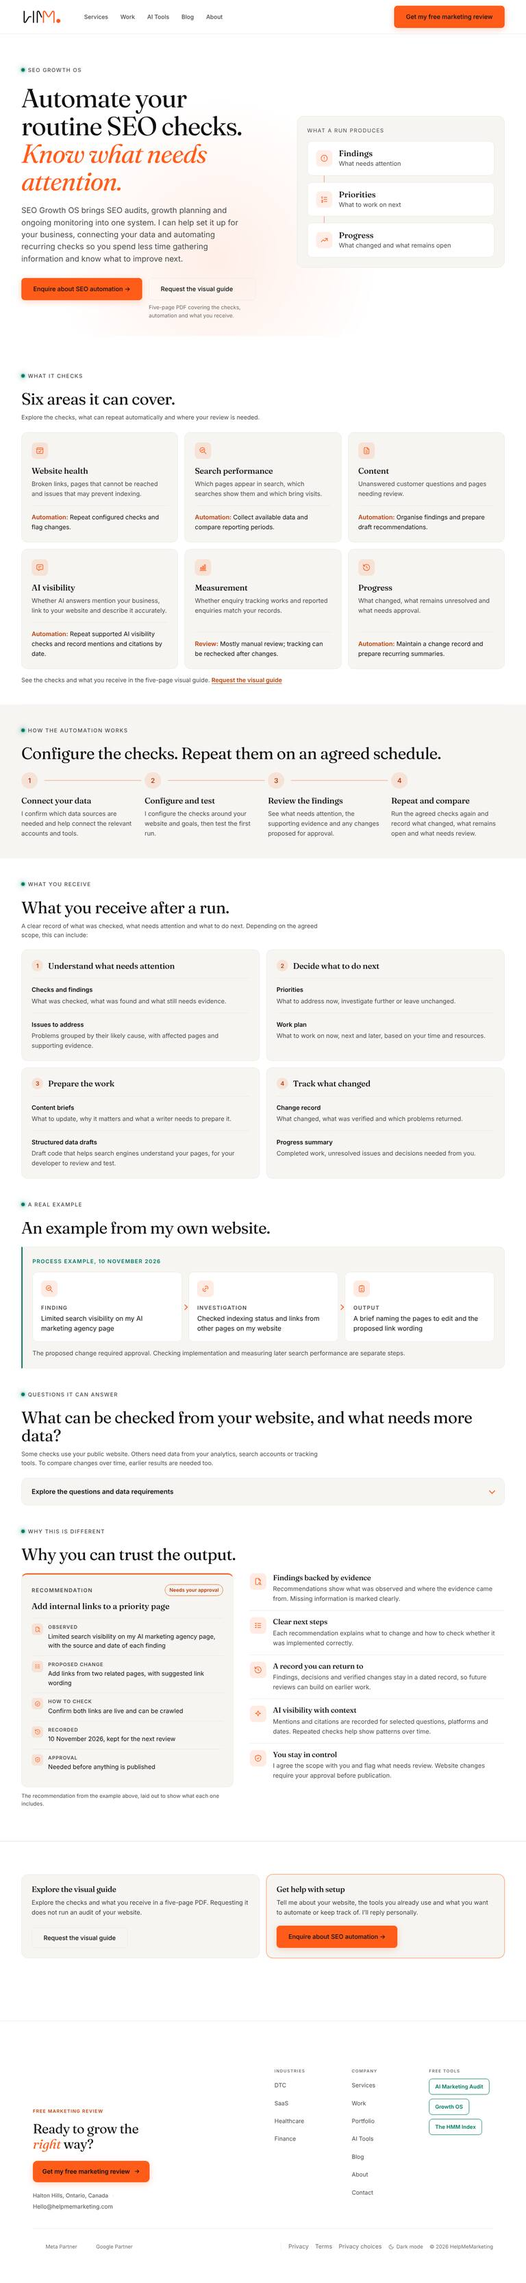
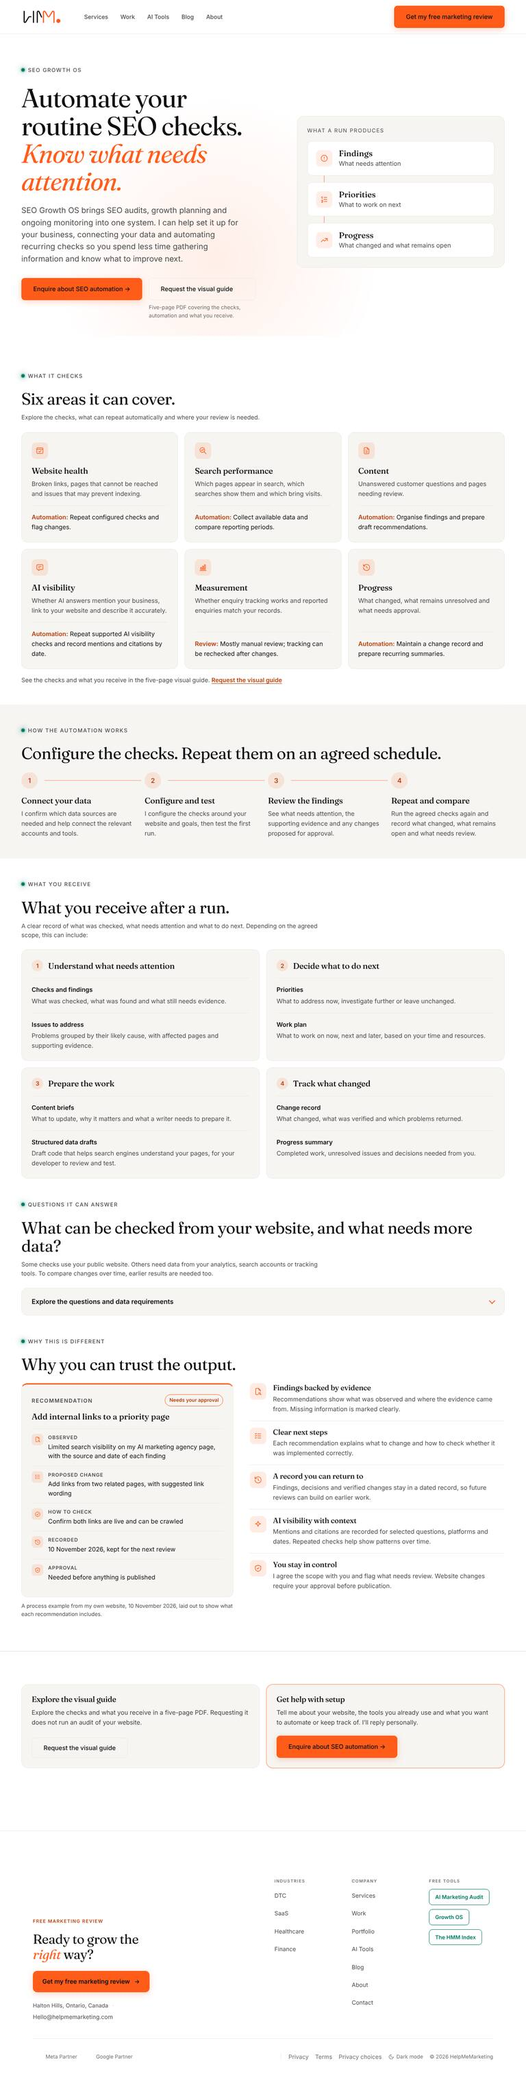
SEO Growth OS page: remove the separate example section
Founder request. The 10 November example now appears once, in the trust
section's record card, whose caption no longer refers to an example above.
Example styles removed; screenshots refreshed.

Claude-Session: https://claude.ai/code/session_018Zqg63gvGy44sVUM5NEbiy

diff --git a/styles.css b/styles.css
@@ -6277,14 +6277,6 @@ body.redesign-prototype [data-screen-label="seo-growth-os"] .gos-group dl { marg
 body.redesign-prototype [data-screen-label="seo-growth-os"] .gos-group dl > div { padding: 16px 0 0; margin-top: 16px; border-top: 1px solid var(--border); }
 body.redesign-prototype [data-screen-label="seo-growth-os"] .gos-group dt { font-size: 15px; font-weight: 600; color: var(--text); }
 body.redesign-prototype [data-screen-label="seo-growth-os"] .gos-group dd { margin: 4px 0 0; font-size: 15px; line-height: 1.6; color: var(--text-muted); }
-body.redesign-prototype [data-screen-label="seo-growth-os"] .gos-example { margin-top: 24px; padding: 24px; border: 1px solid var(--border); border-left: 3px solid var(--mint); border-radius: 0 14px 14px 0; background: var(--bg-elevated); }
-body.redesign-prototype [data-screen-label="seo-growth-os"] .gos-example-label { margin: 0; font-size: 13px; font-weight: 600; letter-spacing: .12em; text-transform: uppercase; color: var(--mint); }
-body.redesign-prototype [data-screen-label="seo-growth-os"] .gos-stages { display: grid; grid-template-columns: repeat(3, 1fr); gap: 16px; margin: 16px 0; padding: 0; list-style: none; }
-body.redesign-prototype [data-screen-label="seo-growth-os"] .gos-stages li { position: relative; padding: 20px; border: 1px solid var(--border); border-radius: 12px; background: var(--bg); }
-body.redesign-prototype [data-screen-label="seo-growth-os"] .gos-stages li:not(:last-child)::after { content: ""; position: absolute; top: 50%; right: -13px; width: 8px; height: 8px; margin-top: -4px; border-top: 2px solid var(--cta); border-right: 2px solid var(--cta); transform: rotate(45deg); }
-body.redesign-prototype [data-screen-label="seo-growth-os"] .gos-stage-k { display: block; margin: 16px 0 4px; font-size: 13px; font-weight: 600; letter-spacing: .12em; text-transform: uppercase; color: var(--text-muted); }
-body.redesign-prototype [data-screen-label="seo-growth-os"] .gos-stage-v { display: block; font-size: 16px; line-height: 1.5; color: var(--text); }
-body.redesign-prototype [data-screen-label="seo-growth-os"] .gos-example > p:last-child { margin: 0; font-size: 15px; line-height: 1.6; color: var(--text-muted); }
 body.redesign-prototype [data-screen-label="seo-growth-os"] .gos-details { margin-top: 24px; border: 1px solid var(--border); border-radius: 14px; background: var(--bg-elevated); }
 body.redesign-prototype [data-screen-label="seo-growth-os"] .gos-details > summary { display: flex; align-items: center; justify-content: space-between; gap: 16px; padding: 20px 24px; font-size: 16px; font-weight: 600; color: var(--text); cursor: pointer; list-style: none; }
 body.redesign-prototype [data-screen-label="seo-growth-os"] .gos-details > summary::-webkit-details-marker { display: none; }
@@ -6326,15 +6318,14 @@ body.redesign-prototype [data-screen-label="seo-growth-os"] .gos-paths .gos-path
   body.redesign-prototype [data-screen-label="seo-growth-os"] .gos-trust-grid { grid-template-columns: 1fr; gap: 32px; }
 }
 @media (max-width: 720px) {
-  body.redesign-prototype [data-screen-label="seo-growth-os"] .gos-areas, body.redesign-prototype [data-screen-label="seo-growth-os"] .gos-groups, body.redesign-prototype [data-screen-label="seo-growth-os"] .gos-stages { grid-template-columns: 1fr; }
-  body.redesign-prototype [data-screen-label="seo-growth-os"] .gos-area, body.redesign-prototype [data-screen-label="seo-growth-os"] .gos-group, body.redesign-prototype [data-screen-label="seo-growth-os"] .gos-example, body.redesign-prototype [data-screen-label="seo-growth-os"] .gos-run { padding: 20px; }
+  body.redesign-prototype [data-screen-label="seo-growth-os"] .gos-areas, body.redesign-prototype [data-screen-label="seo-growth-os"] .gos-groups { grid-template-columns: 1fr; }
+  body.redesign-prototype [data-screen-label="seo-growth-os"] .gos-area, body.redesign-prototype [data-screen-label="seo-growth-os"] .gos-group, body.redesign-prototype [data-screen-label="seo-growth-os"] .gos-run { padding: 20px; }
   body.redesign-prototype [data-screen-label="seo-growth-os"] .gos-band { padding: 32px 0; }
   body.redesign-prototype [data-screen-label="seo-growth-os"] .gos-flow { grid-template-columns: 1fr; gap: 20px; }
   body.redesign-prototype [data-screen-label="seo-growth-os"] .gos-flow li { display: grid; grid-template-columns: 40px 1fr; column-gap: 16px; }
   body.redesign-prototype [data-screen-label="seo-growth-os"] .gos-flow .gos-num { grid-row: 1 / 3; }
   body.redesign-prototype [data-screen-label="seo-growth-os"] .gos-flow h3 { margin: 8px 0 4px; }
   body.redesign-prototype [data-screen-label="seo-growth-os"] .gos-flow li:not(:last-child)::after, body.redesign-prototype [data-screen-label="seo-growth-os"] .gos-flow li:nth-child(2)::after { display: block; top: 48px; bottom: -16px; left: 19px; right: auto; border-top: 0; border-left: 2px solid var(--cta); }
-  body.redesign-prototype [data-screen-label="seo-growth-os"] .gos-stages li:not(:last-child)::after { top: auto; bottom: -13px; right: auto; left: 28px; transform: rotate(135deg); }
   body.redesign-prototype [data-screen-label="seo-growth-os"] .gos-details > summary { padding: 16px 20px; }
   body.redesign-prototype [data-screen-label="seo-growth-os"] .gos-details-body { padding: 0 16px 16px; }
   body.redesign-prototype [data-screen-label="seo-growth-os"] .gos-trust-grid { grid-template-columns: 1fr; gap: 32px; }

diff --git a/seo-growth-os.html b/seo-growth-os.html
@@ -441,20 +441,6 @@ height="0" width="0" class="gtm-ns"></iframe></noscript>
   </div>
 </section>
 
-<section class="sec gos-proof" id="example">
-  <div class="eyebrow">A real example</div>
-  <h2>An example from my own website.</h2>
-  <div class="gos-example">
-    <p class="gos-example-label">Process example, 10 November 2026</p>
-    <ol class="gos-stages">
-      <li><span class="gos-ic" aria-hidden="true"><svg viewBox="0 0 24 24" fill="none" stroke="currentColor" stroke-width="1.75" stroke-linecap="round" stroke-linejoin="round"><circle cx="10" cy="10" r="7"/><path d="M21 21l-6-6"/><path d="M7 12l2-2.5 2 1.5 2.5-3"/></svg></span><span class="gos-stage-k">Finding</span><span class="gos-stage-v">Limited search visibility on my AI marketing agency page</span></li>
-      <li><span class="gos-ic" aria-hidden="true"><svg viewBox="0 0 24 24" fill="none" stroke="currentColor" stroke-width="1.75" stroke-linecap="round" stroke-linejoin="round"><path d="M9 15l6-6"/><path d="M11 6l.5-.5a5 5 0 0 1 7 7L18 13"/><path d="M13 18l-.5.5a5 5 0 0 1-7-7L6 11"/></svg></span><span class="gos-stage-k">Investigation</span><span class="gos-stage-v">Checked indexing status and links from other pages on my website</span></li>
-      <li><span class="gos-ic" aria-hidden="true"><svg viewBox="0 0 24 24" fill="none" stroke="currentColor" stroke-width="1.75" stroke-linecap="round" stroke-linejoin="round"><rect x="5" y="4" width="14" height="17" rx="2"/><path d="M9 4V3h6v1"/><path d="M9 11l2 2 4-4M9 17h6"/></svg></span><span class="gos-stage-k">Output</span><span class="gos-stage-v">A brief naming the pages to edit and the proposed link wording</span></li>
-    </ol>
-    <p>The proposed change required approval. Checking implementation and measuring later search performance are separate steps.</p>
-  </div>
-</section>
-
 <section class="sec" id="questions">
   <div class="eyebrow">Questions it can answer</div>
   <h2>What can be checked from your website, and what needs more data?</h2>
@@ -507,7 +493,7 @@ height="0" width="0" class="gtm-ns"></iframe></noscript>
           <div><span class="gos-rec-ic" aria-hidden="true"><svg viewBox="0 0 24 24" fill="none" stroke="currentColor" stroke-width="1.75" stroke-linecap="round" stroke-linejoin="round"><path d="M12 3l8 3v6c0 5-3.5 8-8 9-4.5-1-8-4-8-9V6z"/><path d="M9 12l2 2 4-4"/></svg></span><dt>Approval</dt><dd>Needed before anything is published</dd></div>
         </dl>
       </div>
-      <figcaption>The recommendation from the example above, laid out to show what each one includes.</figcaption>
+      <figcaption>A process example from my own website, 10 November 2026, laid out to show what each recommendation includes.</figcaption>
     </figure>
     <div class="gos-trust">
       <div class="gos-trust-r"><span class="gos-ic" aria-hidden="true"><svg viewBox="0 0 24 24" fill="none" stroke="currentColor" stroke-width="1.75" stroke-linecap="round" stroke-linejoin="round"><path d="M14 3v4a1 1 0 0 0 1 1h4"/><path d="M12 21H7a2 2 0 0 1-2-2V5a2 2 0 0 1 2-2h7l5 5v4"/><circle cx="16.5" cy="17.5" r="2.5"/><path d="M18.5 19.5L21 22"/></svg></span><div><h3>Findings backed by evidence</h3><p>Recommendations show what was observed and where the evidence came from. Missing information is marked clearly.</p></div></div>

diff --git a/docs/HMM_Design_System.md b/docs/HMM_Design_System.md
@@ -1653,4 +1653,4 @@ No inline styles, no Review or Rating markup; JSON-LD is BreadcrumbList, Article
 
 **SEO Growth OS page positioning, first pass (2026-11-11, founder review).** `/seo-growth-os` leads with recurring checks and the two paths: H1 "Automate your routine SEO checks. Know what to work on next."; buttons "Request SEO Growth OS" (the email gate) and "Get help with setup" (`/contact#contact-form`; orange by the sitewide contact-button rule); notes "Setup is required. You review and approve changes before anything goes live." and "Free bundle · release 2.2.1 · no card. Supported AI tools and some data sources may have their own costs." The page now matches the installed skill (no aggregate score; six steps): the "Health Score 0–100" output became "Coverage and status", the starter prompt asks for category status and coverage with no overall score, the trust copy lists unmeasured categories as missing evidence, and the Service and WebPage JSON-LD describe six steps, not a seven-stage 500-page programme. "Built in" now reads "included in the bundle; installation and setup required"; the outputs section says results depend on the checks chosen and evidence available; the "sample report is coming" promise was removed until a real redacted report exists; the closing box offers setup help instead of the free marketing review. Title "SEO Growth OS: SEO Automation and Setup | HelpMeMarketing". Open: the installed skill reports release 2.2.2 while the page says 2.2.1 (founder to confirm the bundle version); the reorganisation around the visitor's decisions and a real report example are the next pass.
 
-**SEO Growth OS page: checklist and automation offer (2026-11-11, founder review, supersedes the first-pass note above).** `/seo-growth-os` no longer offers the skills bundle; the skills, prompts, scripts and installation package stay private. Two paths: "Enquire about SEO automation" (primary, `/contact?entry=seo_automation#contact-form`) and "Request the full checklist" (outline button and text buttons with `data-gate-open`, the existing email gate). Page order: hero (H1 "Automate your routine SEO checks. Know what needs attention."); What it checks (`#checks`, six-area `mr-table` matching the checklist's six areas, with examples and what can be automated, `.gos-map`); How the automation works (four `ind2-step`s: connect data, configure checks, review and approve, repeat on a schedule); What you receive (the outputs list, "Phased plan" replaces "30/60/90 Plan"); Questions it can answer (the matrix, columns "Website only" and "With connected data", legend "Website / Connect / Costs"); Why you can trust the output; two path cards (`.gos-paths`); final CTA "See what I check, and what I can automate for you." Removed: the node row, business-type picker, specialist skills stack, starter prompt, the three-column method block and their script. The gate dialog asks for an email and optional consent and sends "the checklist" (button "Send me the checklist"; backend keys `form=growth-os-download`, `product=seo`, Turnstile action and the `growth_os_download` event are unchanged for continuity). The customer download is the SEO Growth OS Visual Guide (founder decision 2026-11-11; the checklist PDF and its generator were retired the same day; cut from nine pages to five later that day, founder brief; tiles shortened and two badges retired the same evening, founder), generated by `docs/growth-os-checklist/gen_visual_guide.py` (edit the content lists there, never the HTML) and rendered by `build_visual_guide.mjs` to `HMM-SEO-Growth-OS-Visual-Guide.pdf`, which warns if any page overflows. Five fixed US Letter pages in HMM colours (warm paper, white cards, Signal Orange accents, Fraunces and Inter, no standalone cover): 1 "Where should you start?" (compact Obsidian intro with the logo, a problem-to-starting-point table, the six areas as an icon grid, the label legend with two rows, Draft + review and Human review, and the one scope note); 2 Website health and search performance, 3 Content and AI visibility, 4 Measurement and progress, each six grouped tiles in two columns and three rows; a tile is its icon and title, any badge, one short description (what is checked, what runs automatically and what a person reviews, in plain sentences; no separate Checks, Automates or Review labels), a thin divider and "You receive:" in orange with one output, body text 11pt, every original check kept; 5 the six-stage flow (stages can span runs), the 10 November 2026 process example, what you receive, what setup needs and the clickable enquiry link (`/contact?entry=seo_automation#contact-form`). Tile badges: "Draft + review" (prepares suggestions for a person to assess) and "Human review" (needs judgment or validation), plus dashed tags "Optional" and "Only where it applies" for conditional tiles. A tile whose only mode was scheduled or around a change carries no badge and goes straight from title to description; "Scheduled check" and "On change" are retired from the guide and its legend (founder, 2026-11-11), and scheduling is described in the tile text instead. Do not add replacement badges. Spacing (founder, 2026-11-11): one scale of 4, 8, 12, 16 and 24px set as tokens in the guide CSS. Every page has the same margins (0.5in top, 0.55in sides, footer 0.35in from the bottom) and content starts 48px from the top. Blocks on a page are 24px apart, a heading sits 12px above its block, grids use 16px gaps, boxes use 16px 20px padding and a 12px radius, table rows use 8px 20px, and inside a tile the title, badge, description and divider are 12px apart. Change the tokens, not individual rules, and keep at least 16px between the last block and the footer. Video is left out because the current images module has no specific video checks; location and service pages follow rule registry G-12 (useful differences, not a uniqueness percentage); the conversion card follows the CRO audit (offer, calls to action, friction). No capability count, no repeated not-an-audit, ranking, score or skill-file disclaimers, and no internal test history. The page, gate ("Request the visual guide", "Where should I send the guide?", "Send me the guide", description "Get the five-page guide to SEO Growth OS, including the checks, automation and what you receive." (was "Explore the checks and automation across six areas, what you receive and where human review is needed." until 2026-11-12); since 2026-11-11 the newsletter checkbox is replaced by the notice `.consent-note` "Requesting the guide also adds you to my occasional SEO notes and updates. Every email has an unsubscribe link.", founder decision) and email name the SEO Growth OS Visual Guide, and the page names no capability count (since 2026-11-12 the line under the area cards is "See the checks and what you receive in the five-page visual guide."). The forms script emails it from Drive (`SEO_CHECKLIST_FILE_ID`, which the founder sets after uploading the PDF); `checklistBlob_()` refuses a placeholder ID, a missing or unshared file and anything whose Drive type or content is not PDF, and a checklist request replies `email: 'sent'` or `'failed'` alongside `saved: 'lead'`, so the dialog shows "Check your inbox" only for `sent` and otherwise says the request is saved and I will send it by hand (the row records the failure reason). New contact entry tags `seo_automation` and `ai_seo_setup` (contact.html and the forms script). `/ai-seo-agency` "SEO automation" cards: "See what it checks" (to `/seo-growth-os#checks`) and "Get help with setup" (`entry=ai_seo_setup`). Also aligned: `/services/seo`, `/ai-tools` card, `/work` (no check count until the inventory is verified; its "free to download" line now names Meta Growth OS only). Copy pass (2026-11-12, founder review): the page tells one story (what you can automate, what gets checked, how setup works, what you receive, a real example, what to do next). The hero note describes the guide ("The visual guide is a five-page PDF covering the checks, automation and what you receive."); the four steps are Connect your data, Configure and test, Review the findings, Repeat and compare (the Service JSON-LD offer catalogue lists the same four); "What you receive after a run" has eight plain cards (Checks and findings, Issues to address, Priorities, Work plan, Content briefs, Structured data drafts, Change record, Progress summary); a new section, `.gos-example` (mint left rule, "Process example, 10 November 2026"), repeats the guide's example with no ranking claim; the questions table words each question as what can be observed, and cells that need a previous run or a specific source say "Needs earlier results" or "Needs relevant data" (`.c.part`, short forms "Earlier run" and "Data source" at 680px and below) instead of a tick; the trust section is five plain statements (evidence, next steps, a dated record, AI visibility with context, you stay in control); the final CTA asks "What SEO work would you like to automate?" with one enquiry button. Visual hierarchy (2026-11-12, founder review, same copy): the hero image is replaced by `.gos-run` ("What a run produces": Findings, Priorities, Progress as three connected cards, no numbers), and the guide note sits under the outline button (`.gos-guide-cta`); the six-area table became six `.gos-area` cards (icon, Fraunces 20 title, examples, divider, "Automation:" line; 3/2/1 columns at desktop, 900 and 720); the four steps are a numbered `.gos-flow` sequence on a full-bleed Warm Ivory `.gos-band` (stacked with a vertical line at 720); the eight outputs sit in four numbered `.gos-group`s (Understand what needs attention, Decide what to do next, Prepare the work, Track what changed); the example is the proof panel with three `.gos-stages` (Finding, Investigation, Output) and the approval sentence; the questions table sits in a native `details.gos-details` ("Explore the questions and data requirements", keyboard accessible, content in the HTML); the trust section is two columns (stacked at 900): a `.gos-rec` record card (orange top rule, "Recommendation" label, a "Needs your approval" pill, the title "Add internal links to a priority page" and five fields with small icons: Observed, Proposed change, How to check, Recorded, Approval, all taken from the 10 November example, captioned as that example laid out, no invented data) beside the five statements as compact `.gos-trust-r` rows with icons (2026-11-12, founder request); the setup path card (`.gos-path-main`) carries an orange border, and the two path cards are the close of the page (the separate final automation band was removed the same day, founder review, so the last choice is guide or setup), with 72px (48 at 720) before the footer. One card system: 24px padding (20 at 720), 14px radius, 16px gaps, 40px icon tiles on `--orange-glow`, 15px body. Copy pass 2 (2026-11-12, founder review, wording only): the hero defines the product ("SEO Growth OS brings SEO audits, growth planning and ongoing monitoring into one system. I can help set it up for your business, ..."), and the meta, social and Service JSON-LD descriptions follow it; the Measurement card's second line is labelled "Review:" not "Automation:"; steps 1 and 2 say I do the setup; the example names the page (my AI marketing agency page; the 10 November links were commit `82d3f6b`, from `/ai-seo-agency` and `/services/seo`); the questions section is "What can be checked from your website, and what needs more data?" with legend labels matching the column headings. `/contact?entry=seo_automation` relabels the need field "Tell me what you would like to automate" with an automation example in its placeholder. Release order: upload the visual guide PDF, paste its ID, redeploy the forms script, then merge the page.
+**SEO Growth OS page: checklist and automation offer (2026-11-11, founder review, supersedes the first-pass note above).** `/seo-growth-os` no longer offers the skills bundle; the skills, prompts, scripts and installation package stay private. Two paths: "Enquire about SEO automation" (primary, `/contact?entry=seo_automation#contact-form`) and "Request the full checklist" (outline button and text buttons with `data-gate-open`, the existing email gate). Page order: hero (H1 "Automate your routine SEO checks. Know what needs attention."); What it checks (`#checks`, six-area `mr-table` matching the checklist's six areas, with examples and what can be automated, `.gos-map`); How the automation works (four `ind2-step`s: connect data, configure checks, review and approve, repeat on a schedule); What you receive (the outputs list, "Phased plan" replaces "30/60/90 Plan"); Questions it can answer (the matrix, columns "Website only" and "With connected data", legend "Website / Connect / Costs"); Why you can trust the output; two path cards (`.gos-paths`); final CTA "See what I check, and what I can automate for you." Removed: the node row, business-type picker, specialist skills stack, starter prompt, the three-column method block and their script. The gate dialog asks for an email and optional consent and sends "the checklist" (button "Send me the checklist"; backend keys `form=growth-os-download`, `product=seo`, Turnstile action and the `growth_os_download` event are unchanged for continuity). The customer download is the SEO Growth OS Visual Guide (founder decision 2026-11-11; the checklist PDF and its generator were retired the same day; cut from nine pages to five later that day, founder brief; tiles shortened and two badges retired the same evening, founder), generated by `docs/growth-os-checklist/gen_visual_guide.py` (edit the content lists there, never the HTML) and rendered by `build_visual_guide.mjs` to `HMM-SEO-Growth-OS-Visual-Guide.pdf`, which warns if any page overflows. Five fixed US Letter pages in HMM colours (warm paper, white cards, Signal Orange accents, Fraunces and Inter, no standalone cover): 1 "Where should you start?" (compact Obsidian intro with the logo, a problem-to-starting-point table, the six areas as an icon grid, the label legend with two rows, Draft + review and Human review, and the one scope note); 2 Website health and search performance, 3 Content and AI visibility, 4 Measurement and progress, each six grouped tiles in two columns and three rows; a tile is its icon and title, any badge, one short description (what is checked, what runs automatically and what a person reviews, in plain sentences; no separate Checks, Automates or Review labels), a thin divider and "You receive:" in orange with one output, body text 11pt, every original check kept; 5 the six-stage flow (stages can span runs), the 10 November 2026 process example, what you receive, what setup needs and the clickable enquiry link (`/contact?entry=seo_automation#contact-form`). Tile badges: "Draft + review" (prepares suggestions for a person to assess) and "Human review" (needs judgment or validation), plus dashed tags "Optional" and "Only where it applies" for conditional tiles. A tile whose only mode was scheduled or around a change carries no badge and goes straight from title to description; "Scheduled check" and "On change" are retired from the guide and its legend (founder, 2026-11-11), and scheduling is described in the tile text instead. Do not add replacement badges. Spacing (founder, 2026-11-11): one scale of 4, 8, 12, 16 and 24px set as tokens in the guide CSS. Every page has the same margins (0.5in top, 0.55in sides, footer 0.35in from the bottom) and content starts 48px from the top. Blocks on a page are 24px apart, a heading sits 12px above its block, grids use 16px gaps, boxes use 16px 20px padding and a 12px radius, table rows use 8px 20px, and inside a tile the title, badge, description and divider are 12px apart. Change the tokens, not individual rules, and keep at least 16px between the last block and the footer. Video is left out because the current images module has no specific video checks; location and service pages follow rule registry G-12 (useful differences, not a uniqueness percentage); the conversion card follows the CRO audit (offer, calls to action, friction). No capability count, no repeated not-an-audit, ranking, score or skill-file disclaimers, and no internal test history. The page, gate ("Request the visual guide", "Where should I send the guide?", "Send me the guide", description "Get the five-page guide to SEO Growth OS, including the checks, automation and what you receive." (was "Explore the checks and automation across six areas, what you receive and where human review is needed." until 2026-11-12); since 2026-11-11 the newsletter checkbox is replaced by the notice `.consent-note` "Requesting the guide also adds you to my occasional SEO notes and updates. Every email has an unsubscribe link.", founder decision) and email name the SEO Growth OS Visual Guide, and the page names no capability count (since 2026-11-12 the line under the area cards is "See the checks and what you receive in the five-page visual guide."). The forms script emails it from Drive (`SEO_CHECKLIST_FILE_ID`, which the founder sets after uploading the PDF); `checklistBlob_()` refuses a placeholder ID, a missing or unshared file and anything whose Drive type or content is not PDF, and a checklist request replies `email: 'sent'` or `'failed'` alongside `saved: 'lead'`, so the dialog shows "Check your inbox" only for `sent` and otherwise says the request is saved and I will send it by hand (the row records the failure reason). New contact entry tags `seo_automation` and `ai_seo_setup` (contact.html and the forms script). `/ai-seo-agency` "SEO automation" cards: "See what it checks" (to `/seo-growth-os#checks`) and "Get help with setup" (`entry=ai_seo_setup`). Also aligned: `/services/seo`, `/ai-tools` card, `/work` (no check count until the inventory is verified; its "free to download" line now names Meta Growth OS only). Copy pass (2026-11-12, founder review): the page tells one story (what you can automate, what gets checked, how setup works, what you receive, a real example, what to do next). The hero note describes the guide ("The visual guide is a five-page PDF covering the checks, automation and what you receive."); the four steps are Connect your data, Configure and test, Review the findings, Repeat and compare (the Service JSON-LD offer catalogue lists the same four); "What you receive after a run" has eight plain cards (Checks and findings, Issues to address, Priorities, Work plan, Content briefs, Structured data drafts, Change record, Progress summary); a new section, `.gos-example` (mint left rule, "Process example, 10 November 2026"), repeats the guide's example with no ranking claim; the questions table words each question as what can be observed, and cells that need a previous run or a specific source say "Needs earlier results" or "Needs relevant data" (`.c.part`, short forms "Earlier run" and "Data source" at 680px and below) instead of a tick; the trust section is five plain statements (evidence, next steps, a dated record, AI visibility with context, you stay in control); the final CTA asks "What SEO work would you like to automate?" with one enquiry button. Visual hierarchy (2026-11-12, founder review, same copy): the hero image is replaced by `.gos-run` ("What a run produces": Findings, Priorities, Progress as three connected cards, no numbers), and the guide note sits under the outline button (`.gos-guide-cta`); the six-area table became six `.gos-area` cards (icon, Fraunces 20 title, examples, divider, "Automation:" line; 3/2/1 columns at desktop, 900 and 720); the four steps are a numbered `.gos-flow` sequence on a full-bleed Warm Ivory `.gos-band` (stacked with a vertical line at 720); the eight outputs sit in four numbered `.gos-group`s (Understand what needs attention, Decide what to do next, Prepare the work, Track what changed); the example section (proof panel with three stages) was removed the same day at the founder's request, so the 10 November example now appears only in the trust section's record card; the questions table sits in a native `details.gos-details` ("Explore the questions and data requirements", keyboard accessible, content in the HTML); the trust section is two columns (stacked at 900): a `.gos-rec` record card (orange top rule, "Recommendation" label, a "Needs your approval" pill, the title "Add internal links to a priority page" and five fields with small icons: Observed, Proposed change, How to check, Recorded, Approval, all taken from the 10 November example, captioned "A process example from my own website, 10 November 2026, laid out to show what each recommendation includes.", no invented data) beside the five statements as compact `.gos-trust-r` rows with icons (2026-11-12, founder request); the setup path card (`.gos-path-main`) carries an orange border, and the two path cards are the close of the page (the separate final automation band was removed the same day, founder review, so the last choice is guide or setup), with 72px (48 at 720) before the footer. One card system: 24px padding (20 at 720), 14px radius, 16px gaps, 40px icon tiles on `--orange-glow`, 15px body. Copy pass 2 (2026-11-12, founder review, wording only): the hero defines the product ("SEO Growth OS brings SEO audits, growth planning and ongoing monitoring into one system. I can help set it up for your business, ..."), and the meta, social and Service JSON-LD descriptions follow it; the Measurement card's second line is labelled "Review:" not "Automation:"; steps 1 and 2 say I do the setup; the example names the page (my AI marketing agency page; the 10 November links were commit `82d3f6b`, from `/ai-seo-agency` and `/services/seo`); the questions section is "What can be checked from your website, and what needs more data?" with legend labels matching the column headings. `/contact?entry=seo_automation` relabels the need field "Tell me what you would like to automate" with an automation example in its placeholder. Release order: upload the visual guide PDF, paste its ID, redeploy the forms script, then merge the page.
